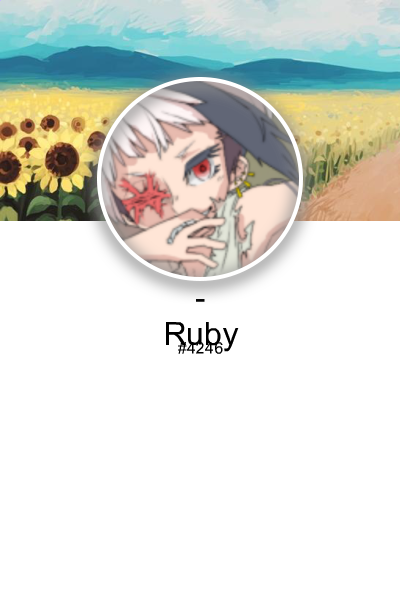
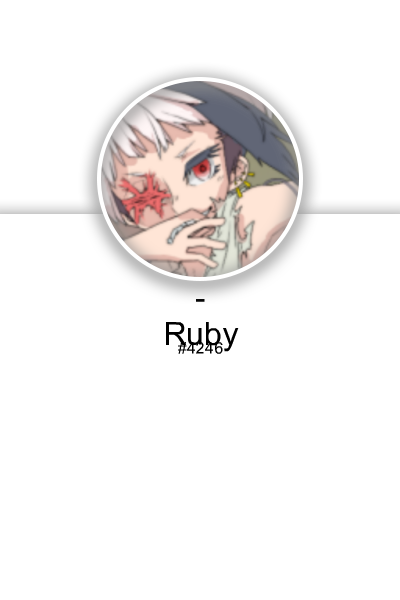
Co-authored-by: FunOrange <FunOrange@users.noreply.github.com> osu card cover image finally renders correctly + did some semantic refactoring

Changed region(s): [[0.0, 0.0, 1.0, 0.39]]

diff --git a/image/jimp.js b/image/jimp.js
@@ -1,89 +1,94 @@
 var Jimp = require('jimp');
 const { download } = require('../util/downloadImage');
 
-async function createImage(player) {
+async function createPlayerCard(player) {
 
     // base image
-    const img = await Jimp.read('image/osuCard.png');
+    const osuCard = await Jimp.read('image/osuCard.png');
 
     // username
     let font = await Jimp.loadFont(Jimp.FONT_SANS_32_BLACK);
-    img.print(font, 200, 280, { text: player.apiv2.username, alignmentX: Jimp.HORIZONTAL_ALIGN_CENTER, alignmentY: Jimp.VERTICAL_ALIGN_MIDDLE }, 0, 0);
+    osuCard.print(font, 200, 280, { text: player.apiv2.username, alignmentX: Jimp.HORIZONTAL_ALIGN_CENTER, alignmentY: Jimp.VERTICAL_ALIGN_MIDDLE }, 0, 0);
     // rank
     font = await Jimp.loadFont(Jimp.FONT_SANS_16_BLACK);
-    img.print(font, 200, 330, { text: `#${player.apiv2.statistics.global_rank}`, alignmentX: Jimp.HORIZONTAL_ALIGN_CENTER, alignmentY: Jimp.VERTICAL_ALIGN_MIDDLE }, 0, 0);
+    osuCard.print(font, 200, 330, { text: `#${player.apiv2.statistics.global_rank}`, alignmentX: Jimp.HORIZONTAL_ALIGN_CENTER, alignmentY: Jimp.VERTICAL_ALIGN_MIDDLE }, 0, 0);
 
     // cover
-    await Jimp.read(player.apiv2.cover_url)
-        .then(async (cover) => {
-
-            // resize the cover
-            cover.scaleToFit(800, 800);
-            // cover.crop(0, 400);
-            // cover.blur();
-            // overlay the cover
-            img.composite(cover, 0, 0, {
-                mode: Jimp.BLEND_SOURCE_OVER,
-                opacityDest: 1,
-                opacitySource: 1,
-            }, 0, 0);
+    console.log('cover url: ' + player.apiv2.cover_url)
+    const cover = await Jimp.read(player.apiv2.cover_url)
+    const aspectRatio = cover.bitmap.width / cover.bitmap.height
+    if (aspectRatio < (400 / 220)) {
+        // scale so that width = 400
+        const scaleFactor = 400 / cover.bitmap.width
+        cover.scale(scaleFactor);
+        cover.blur(5);
+        // overlay the cover
+        osuCard.composite(cover, 0, 220 - cover.bitmap.height, {
+            mode: Jimp.BLEND_SOURCE_OVER,
+            opacityDest: 1,
+            opacitySource: 1,
         })
-        .catch(() => 0);
+    } else {
+        // scale so that height = 220
+        const scaleFactor = 220 / cover.bitmap.height
+        cover.scale(scaleFactor);
+        cover.blur(5);
+        // overlay the cover
+        osuCard.composite(cover, 0, 0, {
+            mode: Jimp.BLEND_SOURCE_OVER,
+            opacityDest: 1,
+            opacitySource: 1,
+        })
+    }
 
     // avatar
-    await Jimp.read(`https://a.ppy.sh/${player.apiv2.id}`)
-        .then(async (avatar) => {
+    const avatar = await Jimp.read(`https://a.ppy.sh/${player.apiv2.id}`)
 
-            // resize the avatar
-            if (avatar.getWidth() != 256) {
-                avatar.scaleToFit(256, 256);
-            }
-            else {
-                avatar.scaleToFit(256, 256);
-            }
+    // resize the avatar
+    avatar.scaleToFit(256, 256);
 
-            // smooth the edges using a circle mask
-            var mask = Jimp.read("image/mask.png");
-            await Promise.all([avatar, mask]).then((images) => {
-                var avatar = images[0];
-                var mask = images[1];
-                avatar.mask(mask, 0, 0);
-            });
+    // smooth the edges using a circle mask
+    const mask = await Jimp.read("image/mask.png");
+    avatar.mask(mask, 0, 0);
+    // await Promise.all([avatar, mask]).then((images) => {
+    //     var avatar = images[0];
+    //     var mask = images[1];
+    // });
 
-            avatar.scaleToFit(200, 200);
+    avatar.scaleToFit(200, 200);
 
-            // overlay the avatar
-            img.composite(avatar, (400 - avatar.getWidth()) / 2, 78, {
-                mode: Jimp.BLEND_SOURCE_OVER,
-                opacityDest: 1,
-                opacitySource: 1,
-                alignmentX: Jimp.HORIZONTAL_ALIGN_CENTER,
-                alignmentY: Jimp.VERTICAL_ALIGN_MIDDLE
-            }, 0, 0);
+    // overlay the avatar
+    osuCard.composite(avatar, (400 - avatar.getWidth()) / 2, 78, {
+        mode: Jimp.BLEND_SOURCE_OVER,
+        opacityDest: 1,
+        opacitySource: 1,
+        alignmentX: Jimp.HORIZONTAL_ALIGN_CENTER,
+        alignmentY: Jimp.VERTICAL_ALIGN_MIDDLE
+    });
 
-            //img.mask(mask, 0, 0).write(`image/cache/osuCard-${user.username}.png`);
-        })
-        .catch(() => 0);
+    //img.mask(mask, 0, 0).write(`image/cache/osuCard-${user.username}.png`);
 
 
     // circle border
-    await Jimp.read("image/osuCard-circle.png")
-        .then((circle) => {
-            img.composite(circle, (400 - circle.getWidth()) / 2, 0, {
-                mode: Jimp.BLEND_SOURCE_OVER,
-                opacityDest: 1,
-                opacitySource: 1,
-                alignmentX: Jimp.HORIZONTAL_ALIGN_CENTER,
-                alignmentY: Jimp.VERTICAL_ALIGN_MIDDLE
-            }, 0, 0);
-        })
-        .catch(() => 0);
+    const circle = await Jimp.read("image/osuCard-circle.png")
+    osuCard.composite(
+        circle, // src
+        (400 - circle.getWidth()) / 2, // x
+        0, // y
+        {
+            mode: Jimp.BLEND_SOURCE_OVER,
+            opacityDest: 1,
+            opacitySource: 1,
+            alignmentX: Jimp.HORIZONTAL_ALIGN_CENTER,
+            alignmentY: Jimp.VERTICAL_ALIGN_MIDDLE
+        }
+    );
 
     console.log("Writing image...");
-    img.write(`image/cache/osuCard-${player.apiv2.username}.png`);
+    osuCard.write(`image/cache/osuCard-${player.apiv2.username}.png`);
     console.log("Image saved!");
 }
 
 module.exports = {
-    createImage
+    createImage: createPlayerCard
 }

diff --git a/index.js b/index.js
@@ -9,6 +9,13 @@ let apiToken;
 initializeDatabase();
 apiToken = requestClientCredentialsToken();
 
+// debug
+// async function asdf() {
+//     let player = await getPlayerByRank(3192);
+//     await createImage(player);
+// }
+// asdf()
+
 client.on('message', async (message) => {
 
     // if the message either doesn't start with the prefix or was sent by a bot, exit early
@@ -19,30 +26,30 @@ client.on('message', async (message) => {
 
     // roll for a random player
     if (command === 'roll') {
-        const number = Math.floor(Math.random() * 10000) + 1;
-
-        let player = await getPlayerByRank(number);
-
-        if (player) {
-            await createImage(player);
-            message.channel.send({ file: "image/cache/osuCard-" + player.apiv2.username + ".png" })
-                .then((m) => {
-                    m.react('😄');
-                    // const filter = (reaction, user) => {
-                    //     return ['😄'].includes(reaction.emoji.name) && user.id === interaction.user.id;
-                    // };
-                    // m.awaitReactions()
-                    //     .then(collected => {
-                    //         const reaction = collected.first();
-                    //         if (reaction.emoji.name === '😄') {
-                    //             message.reply('pwned');
-                    //         }
-                    //     })
-                    //     .catch(collected => {
-                    //         message.reply('You reacted with neither a thumbs up, nor a thumbs down.');
-                    //     });
-                });
+        let player;
+        while (!player) {
+            const rank = Math.floor(Math.random() * 10000) + 1;
+            player = await getPlayerByRank(rank);
         }
+
+        await createImage(player);
+        message.channel.send({ file: "image/cache/osuCard-" + player.apiv2.username + ".png" })
+            .then((m) => {
+                m.react('😄');
+                // const filter = (reaction, user) => {
+                //     return ['😄'].includes(reaction.emoji.name) && user.id === interaction.user.id;
+                // };
+                // m.awaitReactions()
+                //     .then(collected => {
+                //         const reaction = collected.first();
+                //         if (reaction.emoji.name === '😄') {
+                //             message.reply('pwned');
+                //         }
+                //     })
+                //     .catch(collected => {
+                //         message.reply('You reacted with neither a thumbs up, nor a thumbs down.');
+                //     });
+            });
         // const result = await getUser(apiToken, 8759374);
         // console.log(result);
     }
